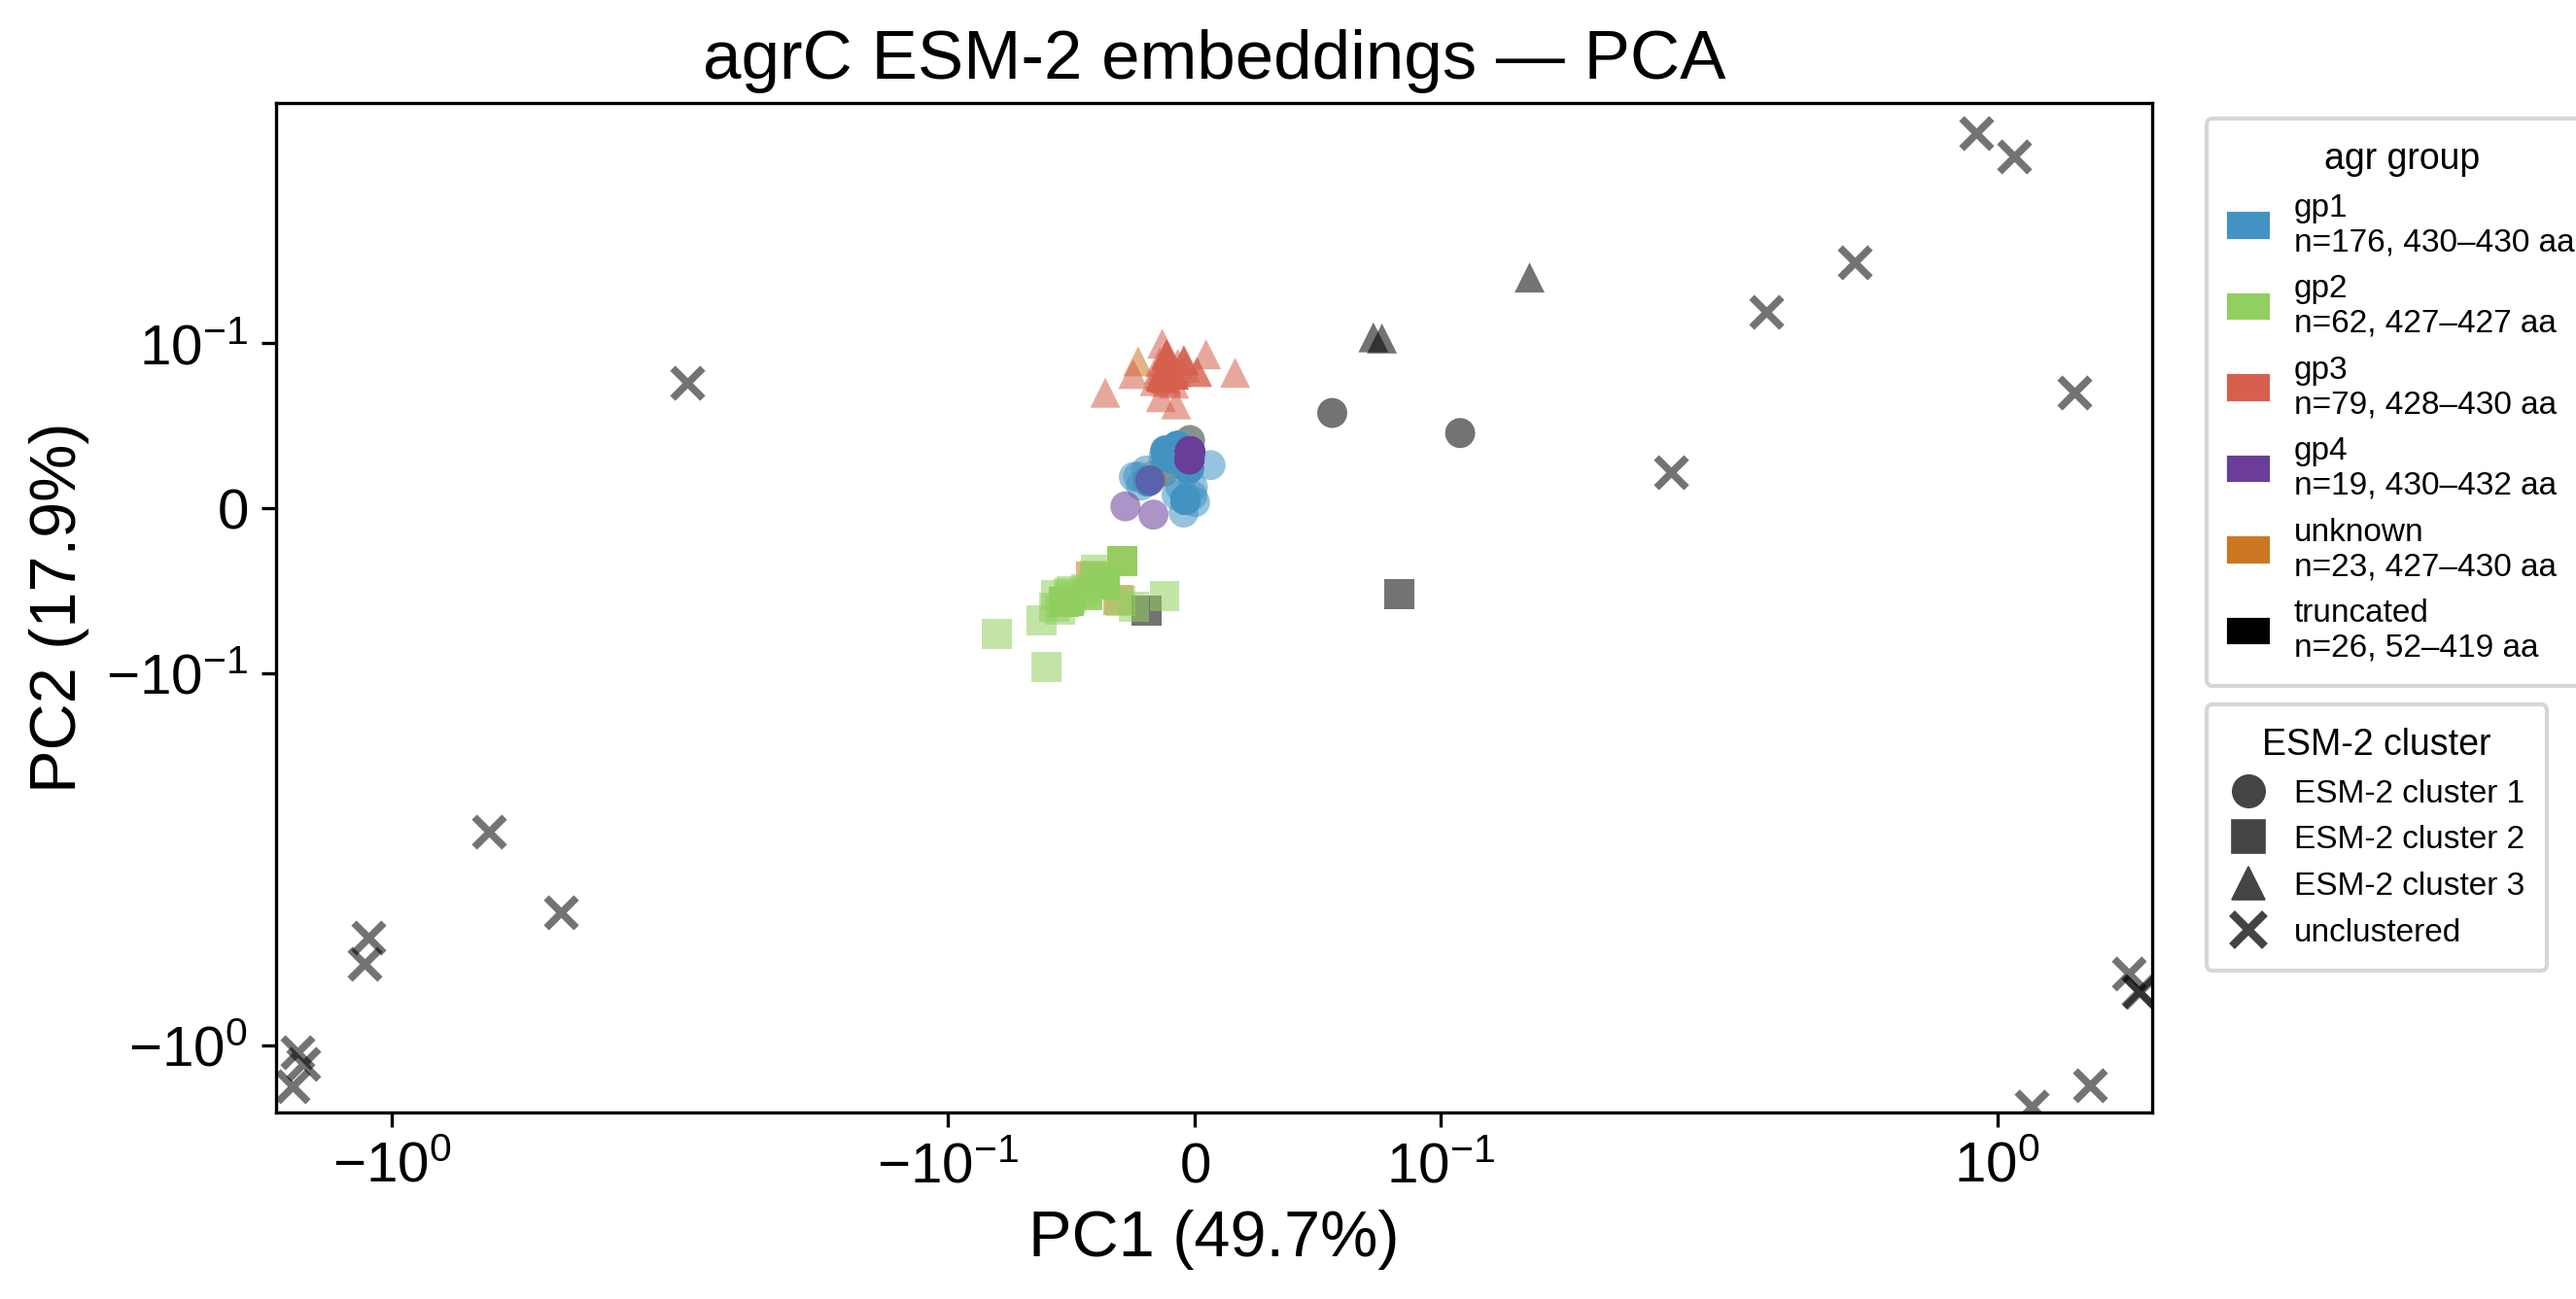
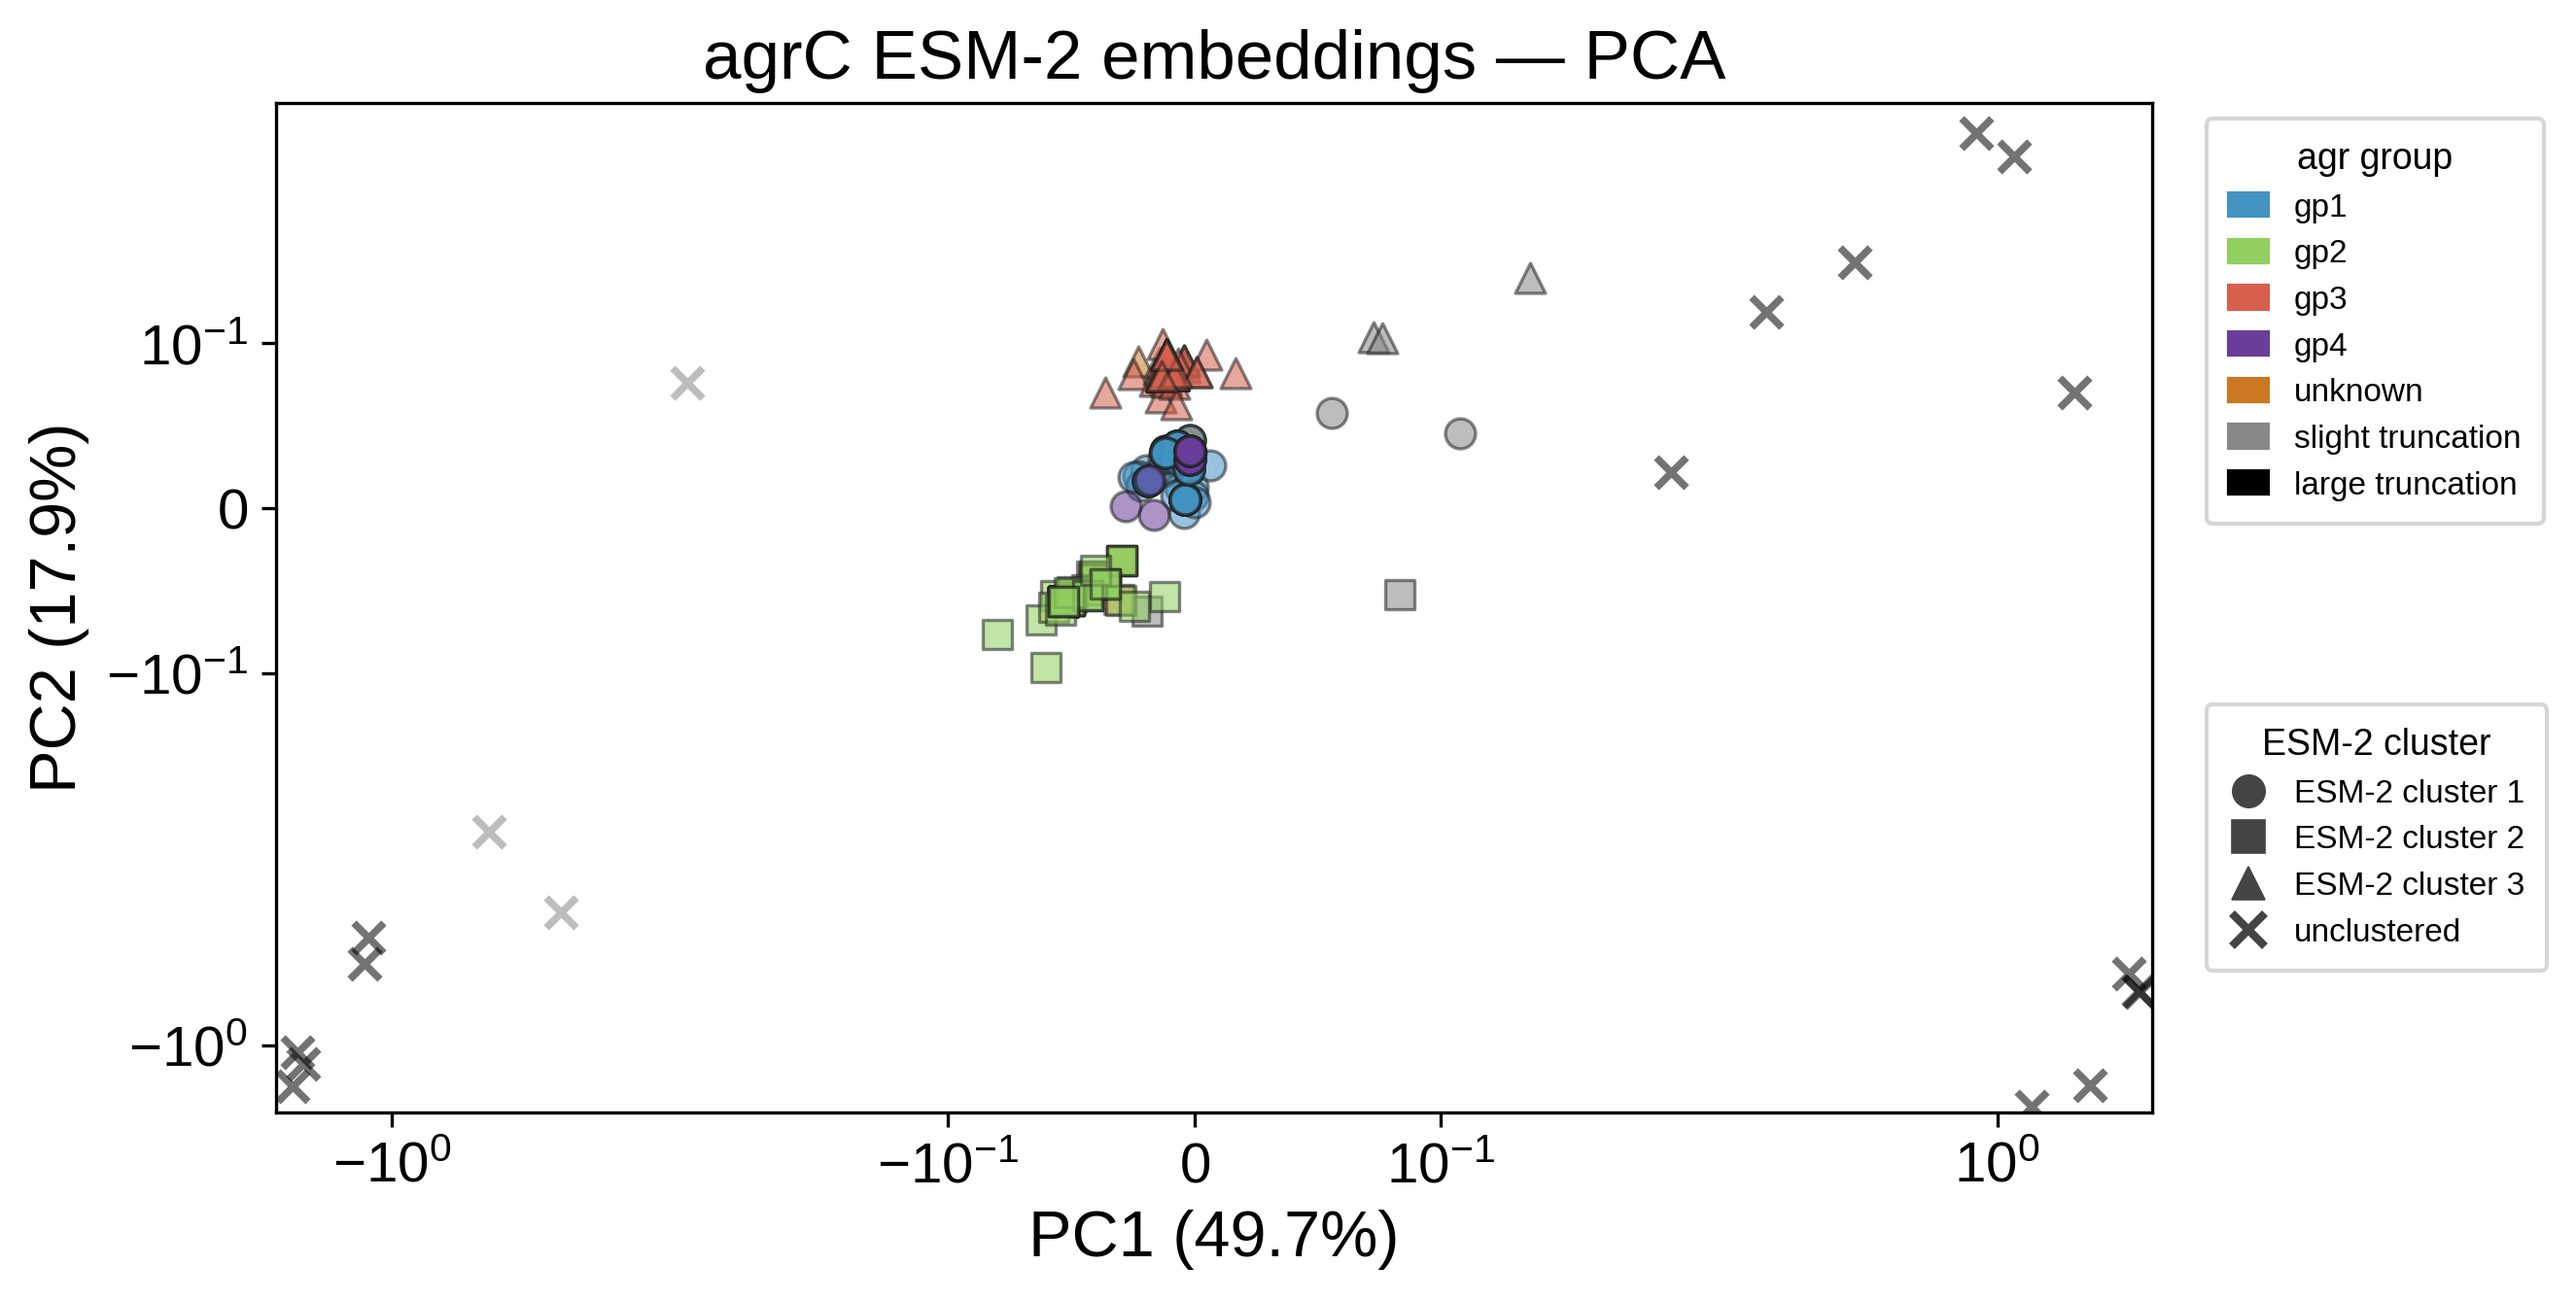
Split truncated into slight/large truncation groups; darker shape outlines; remove length ranges from legend

diff --git a/agrc_esm_single.py b/agrc_esm_single.py
@@ -39,7 +39,7 @@ with open("final_genes.faa") as fh:
 fasta_names = list(seq_lengths.keys())
 lengths     = np.array(list(seq_lengths.values()))
 
-# ── GMM ───────────────────────────────────────────────────────────────────────
+# ── GMM + truncation split ────────────────────────────────────────────────────
 gmm = GaussianMixture(n_components=2, random_state=42)
 gmm.fit(lengths.reshape(-1, 1))
 gmm_comp         = gmm.predict(lengths.reshape(-1, 1))
@@ -47,6 +47,10 @@ full_comp        = int(np.argmax(gmm.means_))
 name_to_is_trunc = {fasta_names[i]: (gmm_comp[i] != full_comp)
                     for i in range(len(fasta_names))}
 name_to_len      = dict(zip(fasta_names, lengths))
+
+median_len      = np.median(lengths)
+trunc_threshold = 0.9 * median_len
+print(f"Median length: {median_len:.0f} aa  |  90% cutoff: {trunc_threshold:.0f} aa")
 
 # ── Metadata ──────────────────────────────────────────────────────────────────
 df_meta    = pd.read_excel("DatasetS1.xlsx", sheet_name="TableS3")
@@ -75,14 +79,19 @@ for fname in sorted(os.listdir(pt_dir)):
     data = torch.load(os.path.join(pt_dir, fname), map_location="cpu")
     vec  = data["mean_representations"][6].numpy()
 
-    agr_group = ("truncated" if name_to_is_trunc.get(label, False)
-                 else acc_to_agr.get(accession, "unknown"))
+    seq_len = name_to_len.get(label, np.nan)
+    if name_to_is_trunc.get(label, False):
+        agr_group = ("slight truncation" if seq_len >= trunc_threshold
+                     else "large truncation")
+    else:
+        agr_group = acc_to_agr.get(accession, "unknown")
+
     assigned  = label_to_assigned.get(label, 0)
     locus     = label_to_locus.get(label, "")
     cluster   = locus_to_cluster.get(locus, "unclustered") if assigned == 1 else "unclustered"
 
     rows.append({"label": label, "vec": vec, "agr_group": agr_group,
-                 "cluster": cluster, "length": name_to_len.get(label, np.nan)})
+                 "cluster": cluster, "length": seq_len})
 
 embeddings = np.array([r["vec"] for r in rows])
 df_pts     = pd.DataFrame([{k: v for k, v in r.items() if k != "vec"} for r in rows])
@@ -104,12 +113,13 @@ ylim = (coords[:, 1].min() - pad * yspan, coords[:, 1].max() + pad * yspan)
 
 # ── Colour + shape maps ───────────────────────────────────────────────────────
 p1_colors = {
-    "gp1":       "#4393C3",
-    "gp2":       "#91CF60",
-    "gp3":       "#D6604D",
-    "gp4":       "#6A3D9A",
-    "unknown":   "#CC7722",
-    "truncated": "black",
+    "gp1":              "#4393C3",
+    "gp2":              "#91CF60",
+    "gp3":              "#D6604D",
+    "gp4":              "#6A3D9A",
+    "unknown":          "#CC7722",
+    "slight truncation": "#888888",
+    "large truncation":  "#000000",
 }
 cluster_markers = {
     "ESM-2 cluster 1": "o",
@@ -122,11 +132,11 @@ cluster_markers = {
 fig, ax = plt.subplots(figsize=(13, 4.5))
 fig.subplots_adjust(right=0.62)   # leave room for legends on the right
 
-agr_order     = ["gp1", "gp2", "gp3", "gp4", "unknown", "truncated"]
+agr_order     = ["gp1", "gp2", "gp3", "gp4", "unknown",
+                 "slight truncation", "large truncation"]
 cluster_order = ["ESM-2 cluster 1", "ESM-2 cluster 2", "ESM-2 cluster 3", "unclustered"]
 
-# draw truncated/unknown at low z-order, rest on top
-zorder_map = {"truncated": 1, "unknown": 1}
+zorder_map = {"slight truncation": 1, "large truncation": 1, "unknown": 1}
 
 for agr in agr_order:
     sub = df_pts[df_pts["agr_group"] == agr]
@@ -141,8 +151,8 @@ for agr in agr_order:
                    c=p1_colors[agr],
                    marker=cluster_markers[clust],
                    s=55, alpha=0.55,
-                   linewidths=1.8 if clust == "unclustered" else 0.4,
-                   edgecolors="none" if clust != "unclustered" else p1_colors[agr],
+                   linewidths=1.8 if clust == "unclustered" else 0.8,
+                   edgecolors=p1_colors[agr] if clust == "unclustered" else "#222222",
                    zorder=zord)
 
 ax.set_xscale("symlog", linthresh=0.2)
@@ -158,9 +168,7 @@ for g in agr_order:
     sub = df_pts[df_pts["agr_group"] == g]
     if sub.empty:
         continue
-    lo, hi = int(sub["length"].min()), int(sub["length"].max())
-    lbl = f"{g}\nn={len(sub)}, {lo}–{hi} aa"
-    color_handles.append(mpatches.Patch(color=p1_colors[g], label=lbl))
+    color_handles.append(mpatches.Patch(color=p1_colors[g], label=g))
 leg1 = ax.legend(handles=color_handles, title="agr group",
                  loc="upper left", bbox_to_anchor=(1.02, 1.0),
                  frameon=True, borderpad=0.7, handlelength=1.2)
